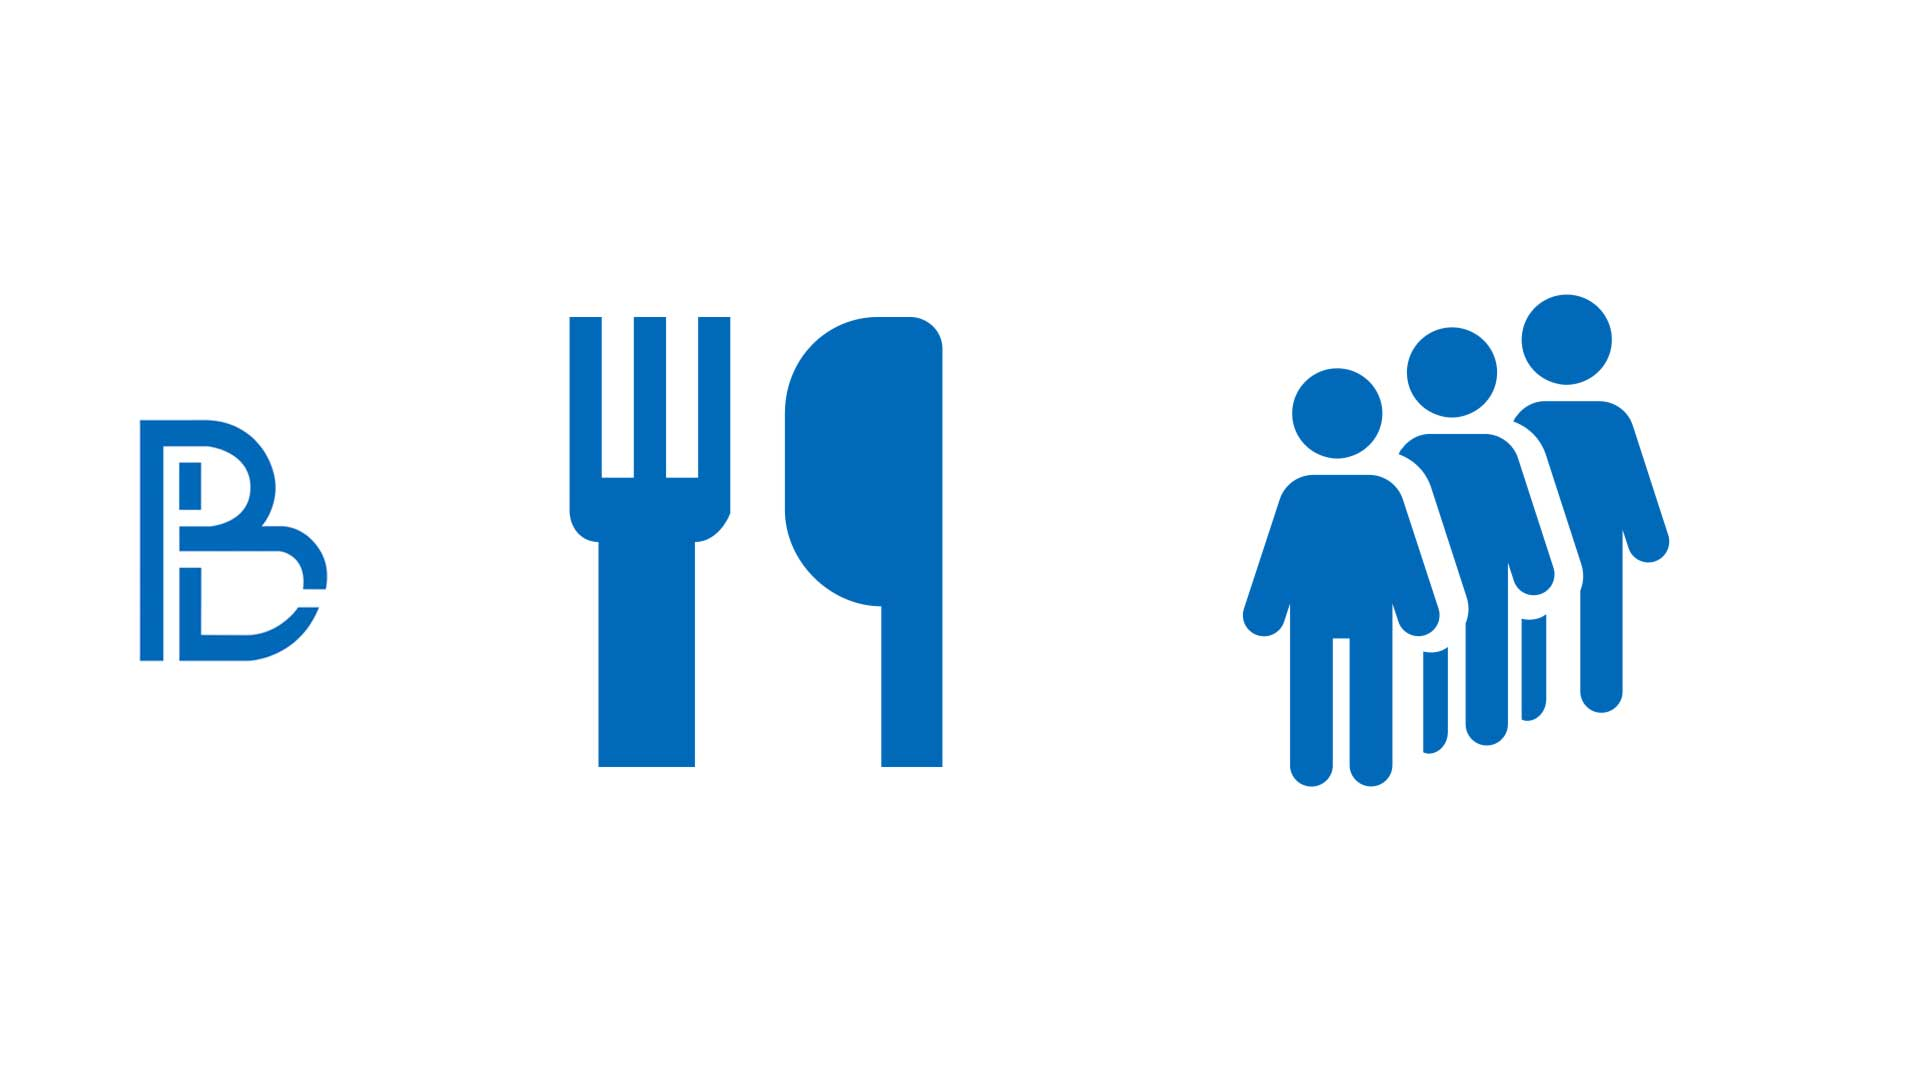
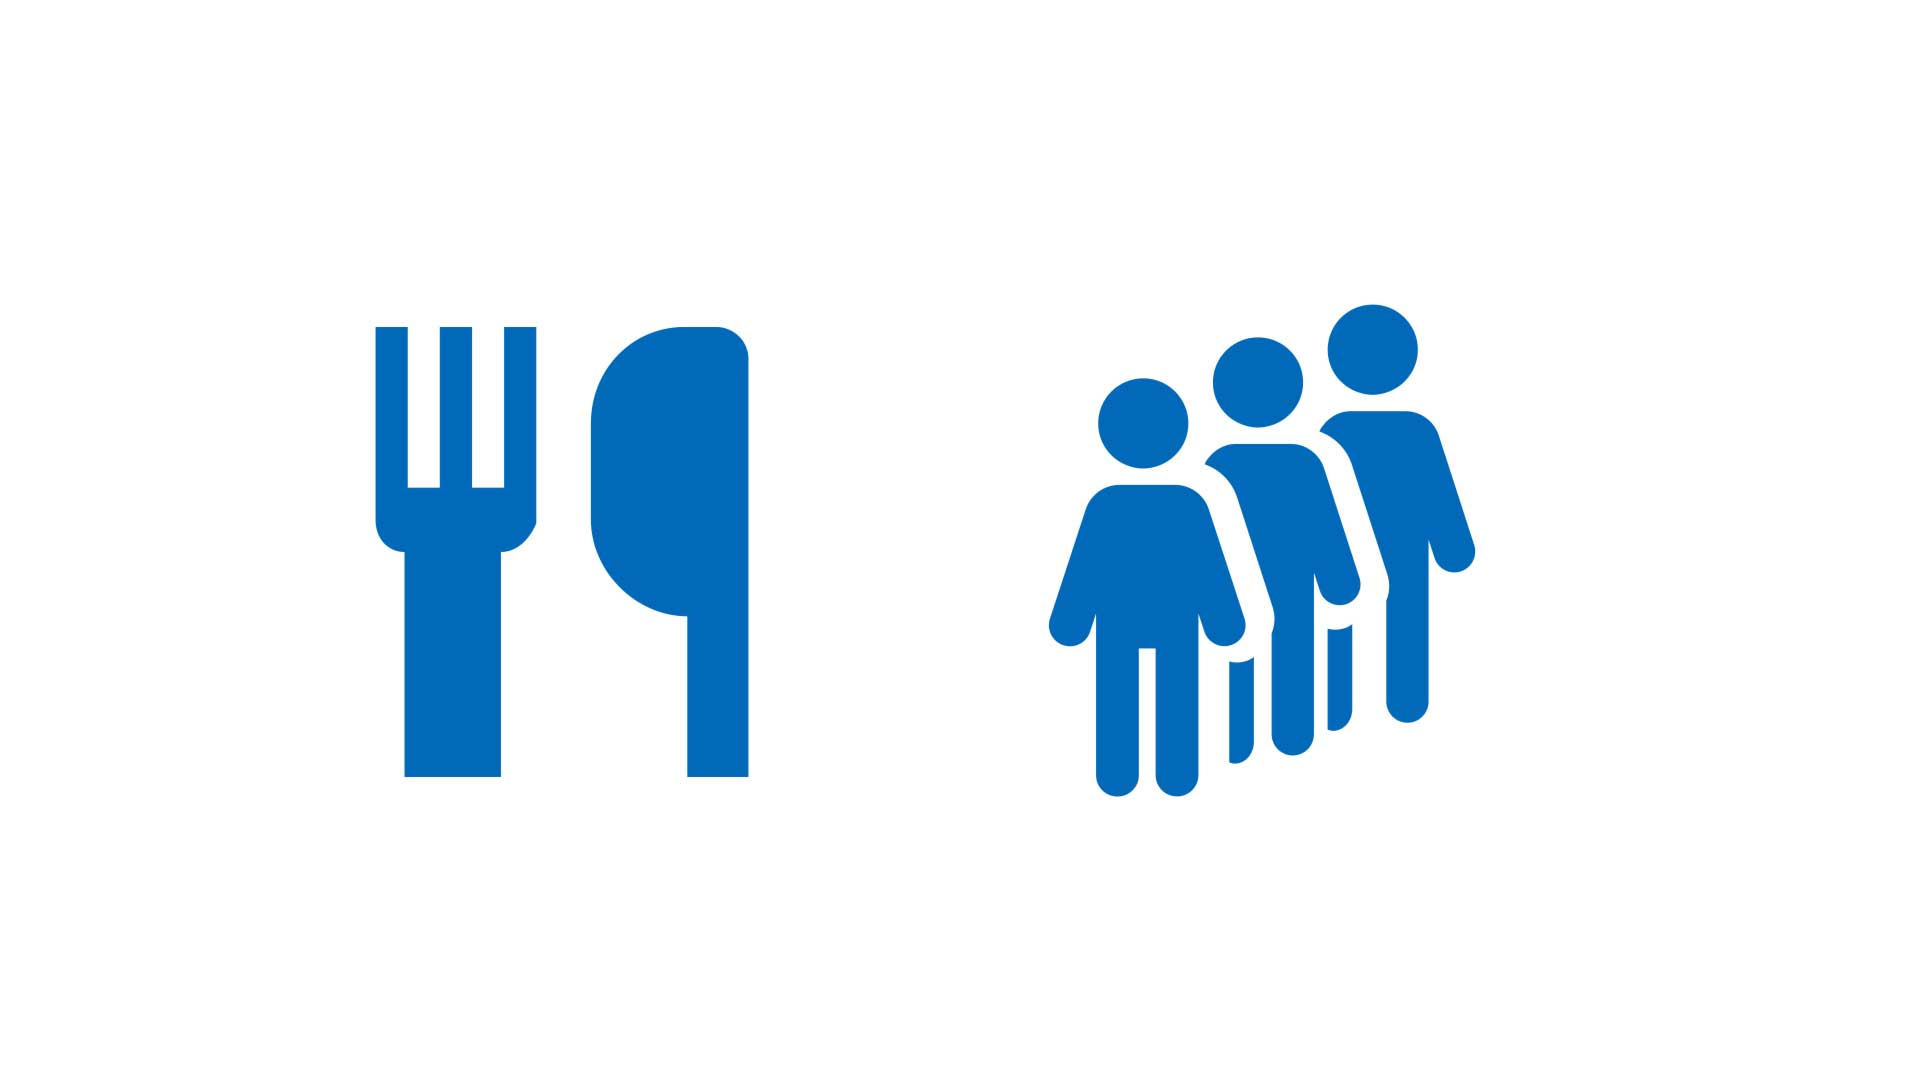
feat: 图片替换

Changed region(s): [[0.0625, 0.275, 0.5, 0.7333], [0.5312, 0.275, 0.875, 0.7333]]

diff --git a/src/components/Bottom.vue b/src/components/Bottom.vue
@@ -11,6 +11,7 @@ const handleNavClick = item => router.replace(item.path)
 <template>
   <div class="layout_bottom">
     <div class="img">
+      <img src="@/assets/bottom.gif" alt="bottom.gif" />
     </div>
     <div class="nav">
       <div
@@ -33,8 +34,12 @@ const handleNavClick = item => router.replace(item.path)
   padding-top: 160px;
   .img{
     width: 100%;
-    height: 200px;
-    background: aliceblue;
+    //background: aliceblue;
+    img{
+      width: 100%;
+      height: auto;
+      //min-height: 80px;
+    }
   }
   .nav{
     margin-top: 2rem;
